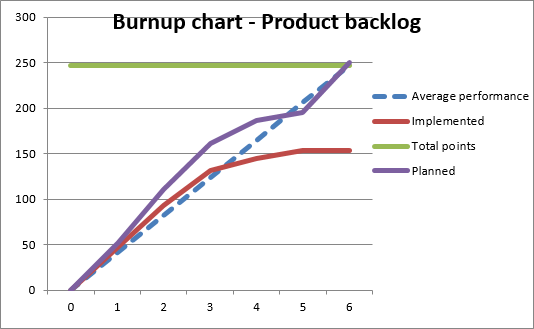
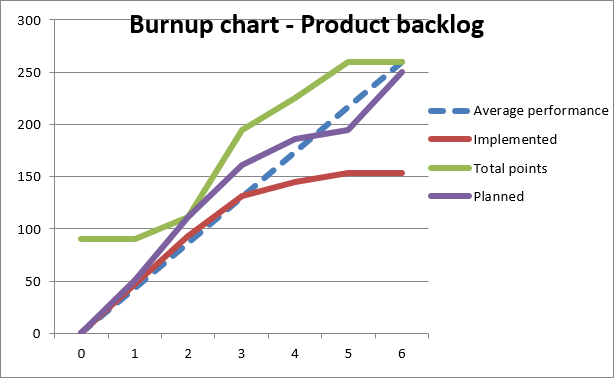
Added updated burnup chart for sprint 6.

diff --git a/numbers.html b/numbers.html
@@ -45,7 +45,7 @@
       <!-- Main component for a primary marketing message or call to action -->
       <div class="container">
         <h1>Burndown</h1>
-        <img src="./img/burndown/burnup_sprint4_start.png" width=50% height=50%>
+        <img src="./img/burndown/burnup_sprint6_start.png" width=50% height=50%>
         <br>
         <div style="padding-top: 20px">
           <img src="./img/burndown/planned_sprint1_start.png">
